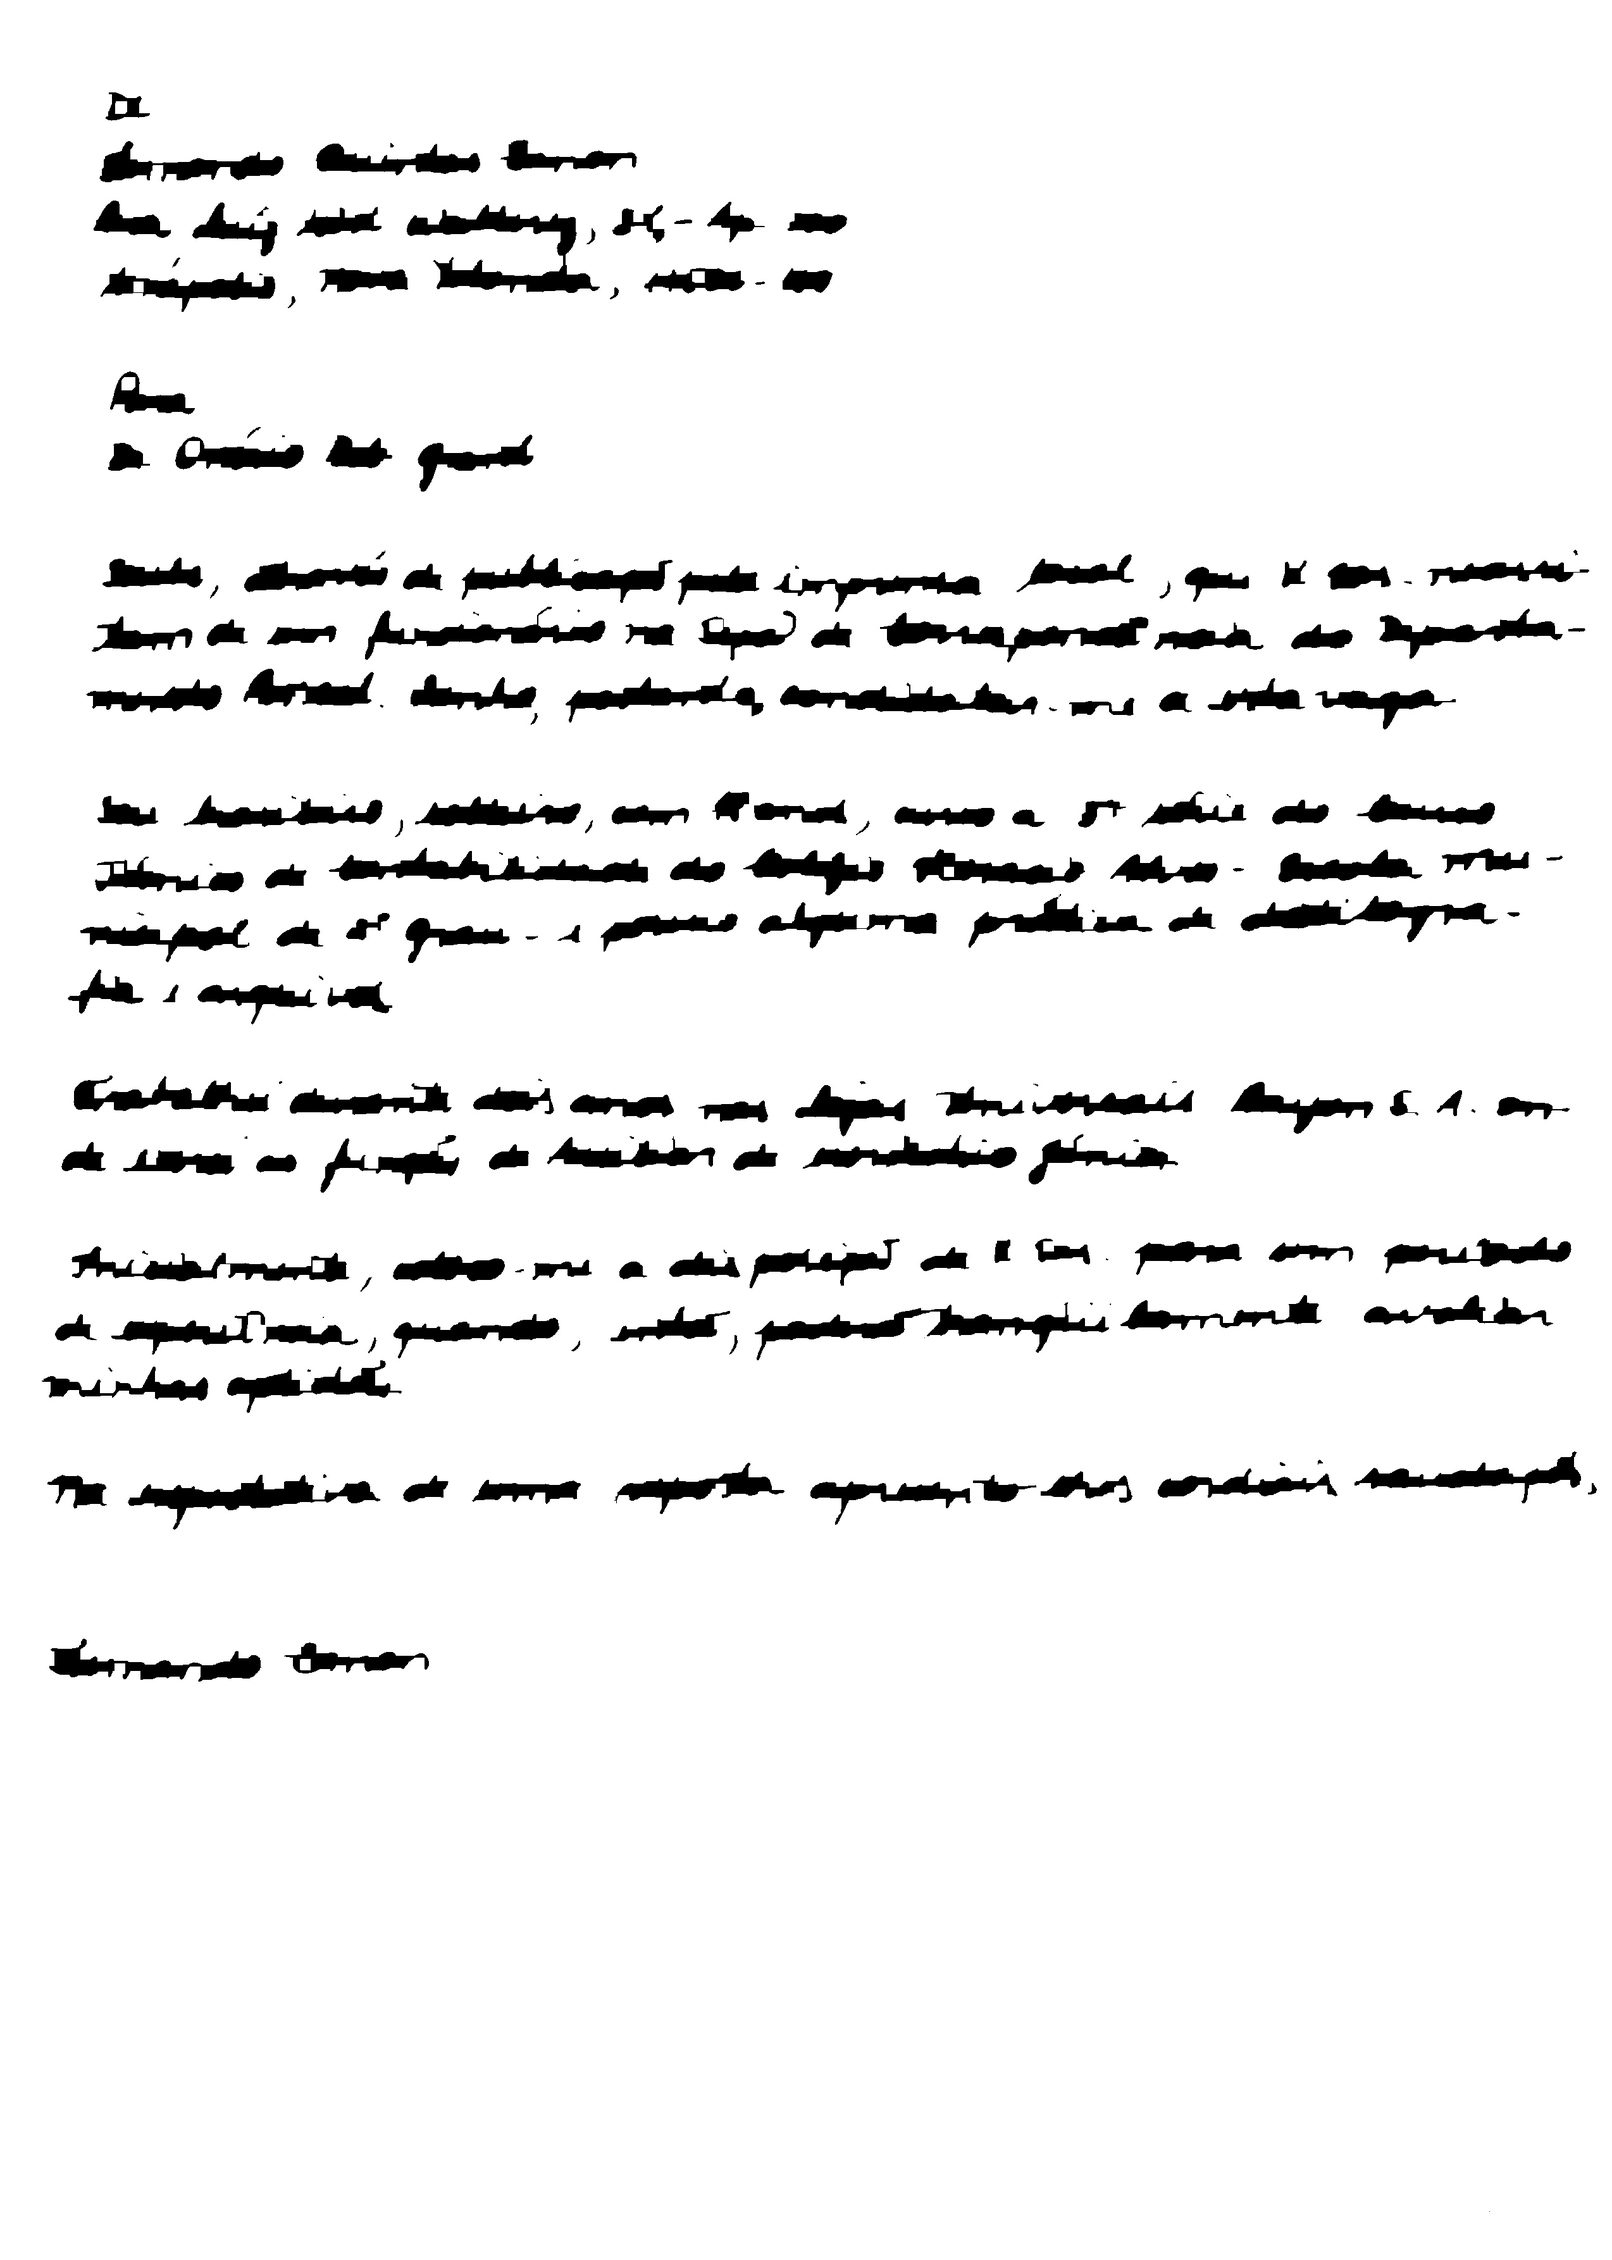
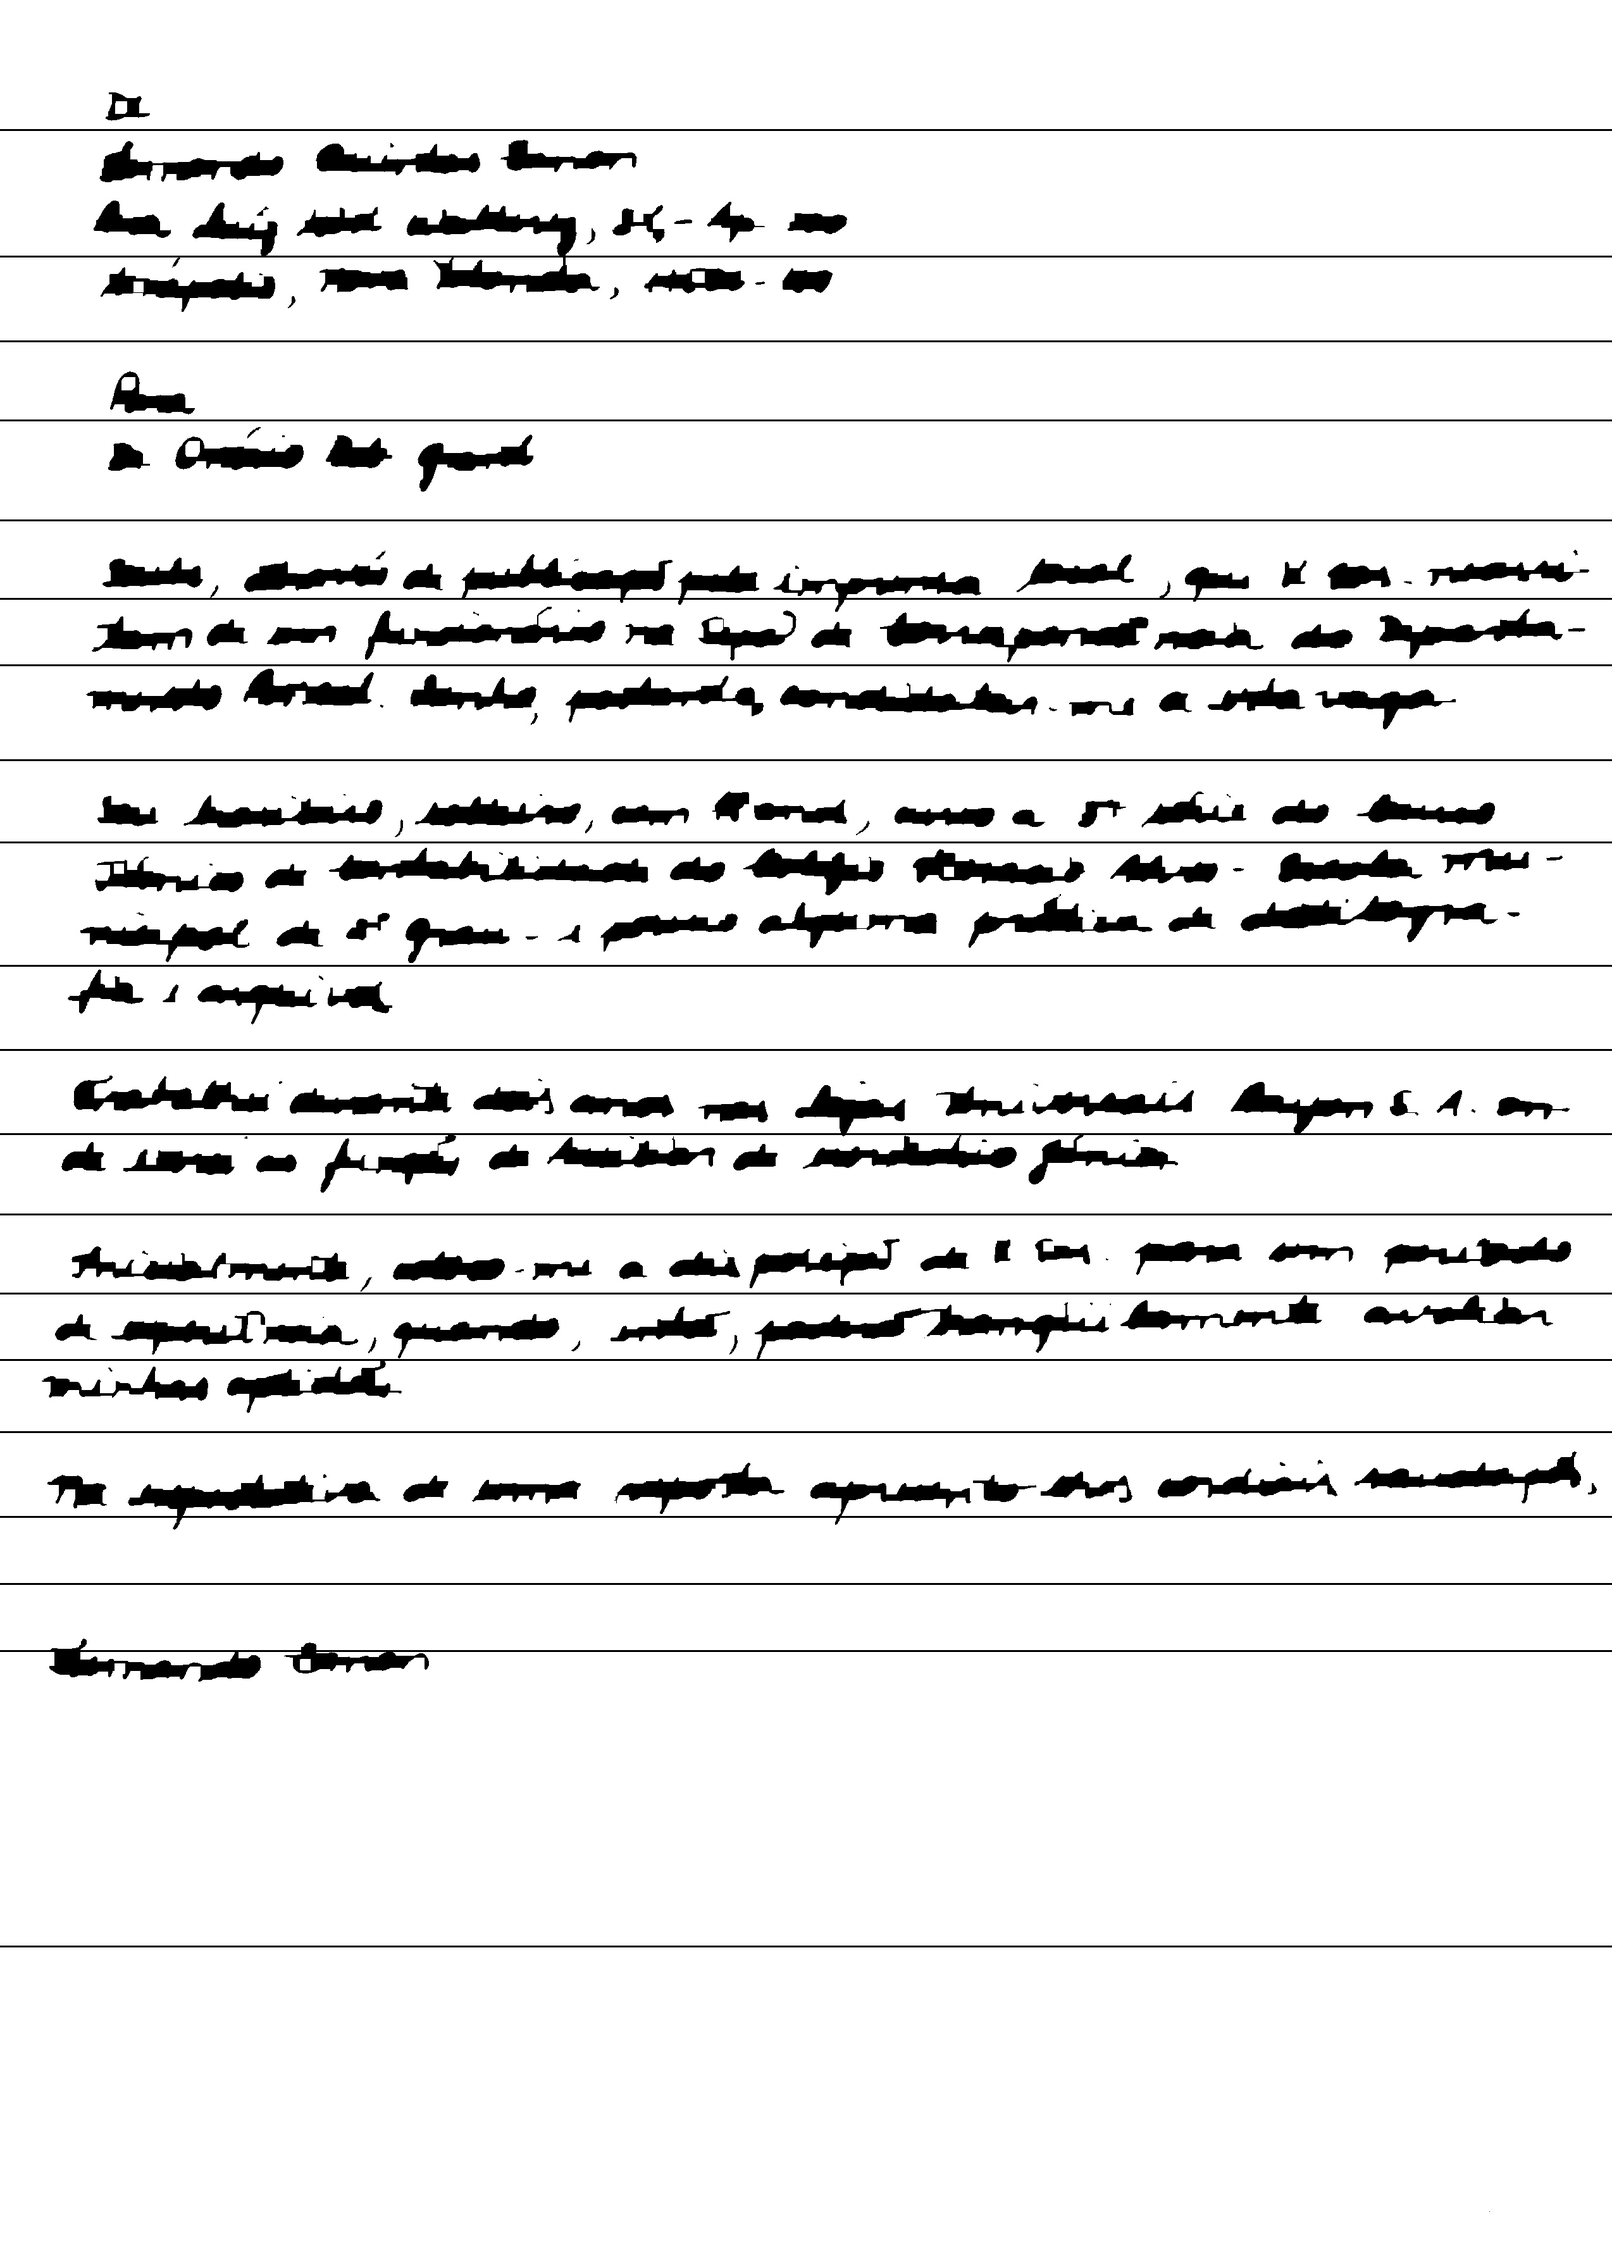
[main] Defined line height

diff --git a/5-assignment/cartas.py b/5-assignment/cartas.py
@@ -34,21 +34,21 @@ def getImagesInfo(dir_path):
     return letters
 
 
-def determine_score(arr, angle):
+def determineScore(arr, angle):
     data = nd.interpolation.rotate(arr, angle, reshape=False, order=0)
     histogram = np.sum(data, axis=1, dtype=float)
     score = np.sum((histogram[1:] - histogram[:-1]) ** 2, dtype=float)
     return score
 
 
-def correct_rotation(image, delta=0.8, limit=5):
+def correctRotation(image, delta=0.8, limit=5):
     _, thresh = cv2.threshold(
         image, 0, 255, cv2.THRESH_BINARY_INV + cv2.THRESH_OTSU)
 
     scores = []
     angles = np.arange(-limit, limit + delta, delta)
     for angle in angles:
-        score = determine_score(thresh, angle)
+        score = determineScore(thresh, angle)
         scores.append(score)
 
     best_angle = angles[scores.index(max(scores))]
@@ -62,41 +62,44 @@ def correct_rotation(image, delta=0.8, limit=5):
     return corrected
 
 
-def getImageLines(image, idx):
-    image = correct_rotation(image)
-    _, th2 = cv2.threshold(
-        image, 0, 255, cv2.THRESH_BINARY + cv2.THRESH_OTSU)
-
-    kernel = np.ones((16, 16), np.uint8)
-    dilated = cv2.morphologyEx(th2, cv2.MORPH_OPEN, kernel)
-    #dilated = cv2.bitwise_not(dilated)
-
+def processLines(image):
     # Gets hist on y-axis
-    data = np.sum(dilated, axis=1).astype(int).tolist()
+    data = np.sum(image, axis=1).astype(int).tolist()
     data = data / np.linalg.norm(data)
-
-    # Gets reference values and threshold
-    var_hist = np.var(data)
 
     # Gets histogram peaks
     # Height is the number of words
     # Distance is the height of the line
-    peaksPos, _ = sg.find_peaks(
-        data, height=var_hist, distance=100, prominence=var_hist)
+    h, _ = image.shape
+    peaks_pos, _ = sg.find_peaks(data, distance=(h*0.0283))
 
-    height, width = image.shape
+    return peaks_pos
+
+
+def processImage(image, idx):
+    rotated = correctRotation(image)
+
+    _, th2 = cv2.threshold(
+        rotated, 0, 255, cv2.THRESH_BINARY + cv2.THRESH_OTSU)
+
+    kernel = np.ones((16, 16), np.uint8)
+    dilated = cv2.morphologyEx(th2, cv2.MORPH_OPEN, kernel)
+
+    peaks_pos = processLines(dilated)
+
+    height, width = dilated.shape
     for j in range(height):
-        if j in peaksPos or j+1 in peaksPos or j-1 in peaksPos:
+        if j in peaks_pos or j+1 in peaks_pos or j-1 in peaks_pos:
             for i in range(width):
-                image[j][i] = 0
+                dilated[j][i] = 0
 
     cv2.imwrite("./results/image"+str(idx)+".jpg", dilated)
 
     # plt.plot(data)
-    #plt.plot(peaksPos, data[peaksPos], "x")
+    #plt.plot(peaks_pos, data[peaks_pos], "x")
     # plt.show()
 
-    return len(peaksPos)
+    return len(peaks_pos)
 
 
 def countLines():
@@ -105,12 +108,12 @@ def countLines():
 
     for idx, letter in enumerate(letters):
         image = cv2.imread(letter["image"], 0)
-        total = getImageLines(image, idx)
+        total = processImage(image, idx)
 
         writer = letter["writer"]
         lines = int(letter["lines"])
-        print("Writer, calculated, real")
-        print(f"c{ writer } { total } { lines }")
+        #print("Writer, calculated, real")
+        #print(f"c{ writer } { total } { lines }")
 
         correct = correct + 1 if lines == total else correct
 
